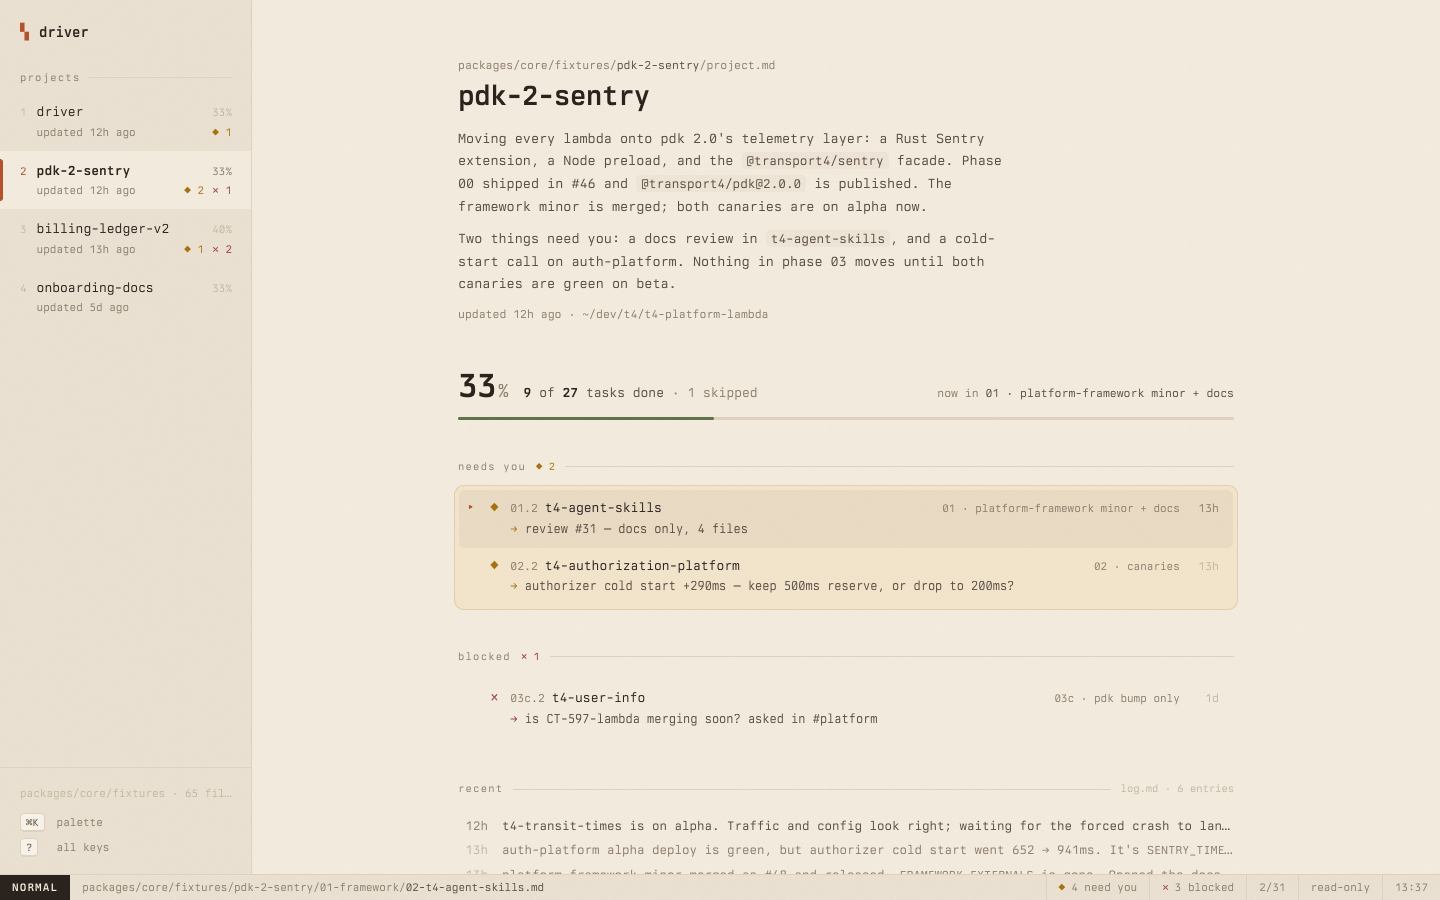
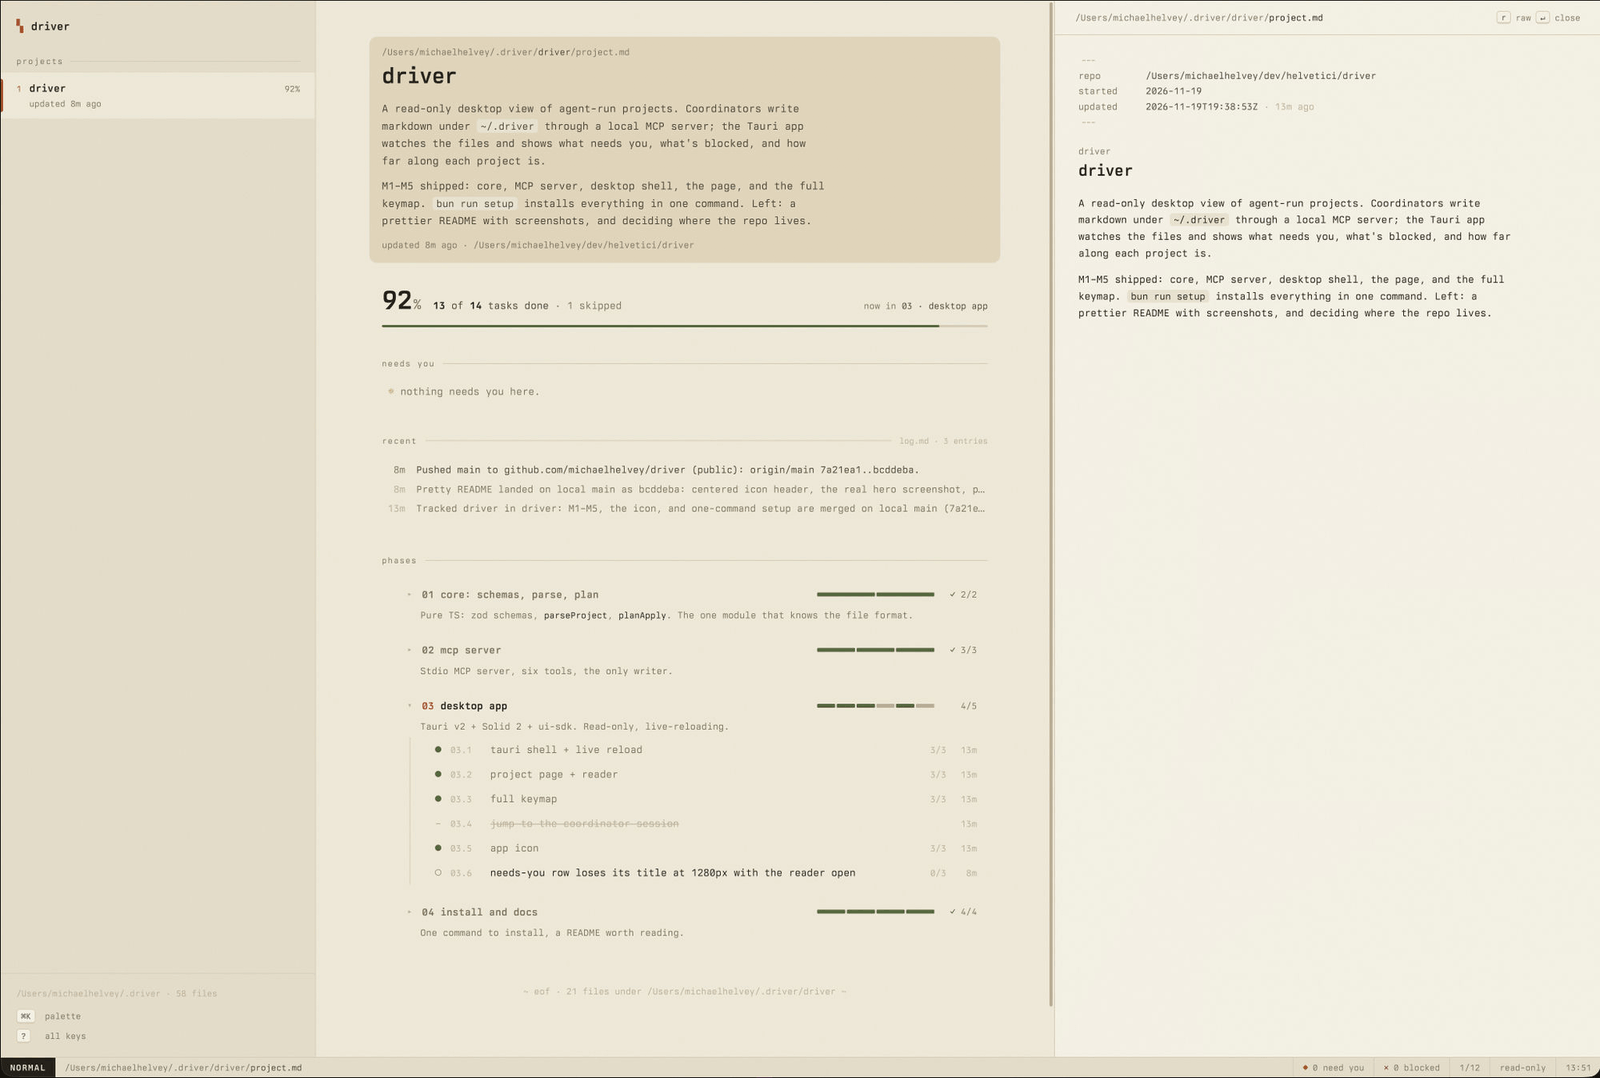
docs: real paper-theme screenshot, and keep work projects out of README images

diff --git a/README.md b/README.md
@@ -185,7 +185,7 @@ its frontmatter as a table. `r` shows the raw file, exactly as on disk.
 `t` switches between cocoa (above) and paper, and the app remembers the choice.
 
 <p align="center">
-  <img src="docs/assets/paper.png" width="720" alt="driver in the paper theme on the bundled pdk-2-sentry fixture: 33% done, 9 of 27 tasks, two tasks that need you and one blocked task">
+  <img src="docs/assets/paper.png" width="720" alt="driver in the paper theme, tracking its own build: the driver project is 92% done with 13 of 14 tasks, nothing needs you, the recent log shows the push to GitHub, the desktop app phase is expanded to its six tasks, and the reader on the right shows the project's frontmatter and summary">
 </p>
 
 ### Keys
@@ -342,11 +342,10 @@ writes to the real system clipboard (the `y` and `c` checks), so expect your cli
 Every verification lever, and the steps to accept a change by hand, are in
 [`.agents/skills/verify-driver/SKILL.md`](.agents/skills/verify-driver/SKILL.md).
 
-The README's images live in `docs/assets/`. `hero.jpg` is a window capture of the installed app,
-resized with `magick <capture> -strip -resize 1600x -quality 95 -sampling-factor 4:4:4 hero.jpg`.
-`paper.png` comes from the browser build:
-`bun apps/desktop/scripts/screenshot.ts http://localhost:1420/ /tmp/paper.png 2 1440x900`, then
-`magick /tmp/paper.png -strip -dither None -colors 256 PNG8:docs/assets/paper.png`.
+The README's images live in `docs/assets/`. Both are window captures of the installed app.
+`hero.jpg` is resized with
+`magick <capture> -strip -resize 1600x -quality 95 -sampling-factor 4:4:4 hero.jpg`, and `paper.png`
+with `magick <capture> -strip -resize 1600x -dither None -colors 256 PNG8:paper.png`.
 `bun apps/desktop/scripts/readme-preview.ts` renders the README offline, checks its links, and
 screenshots it in light and dark.
 
